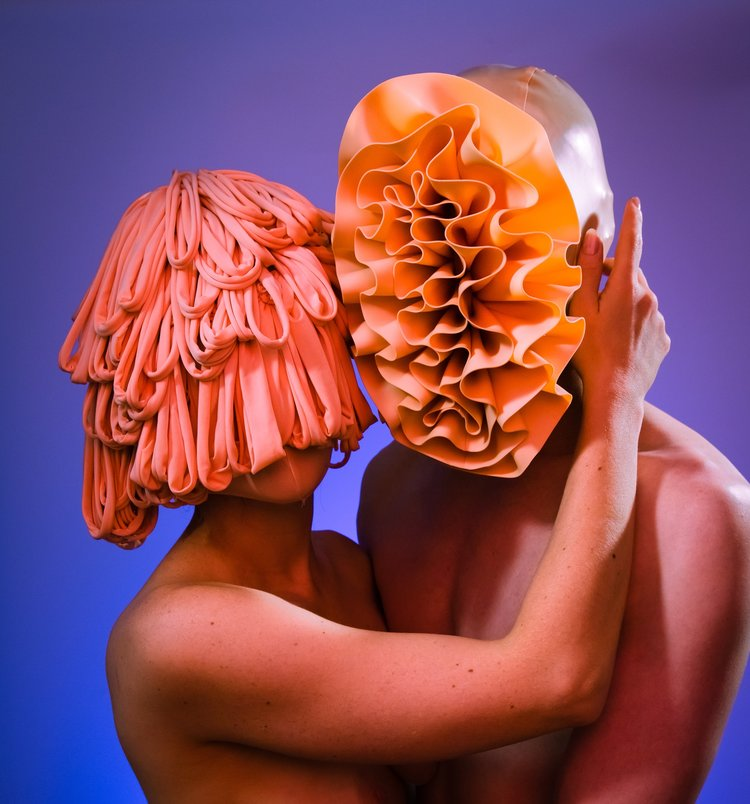
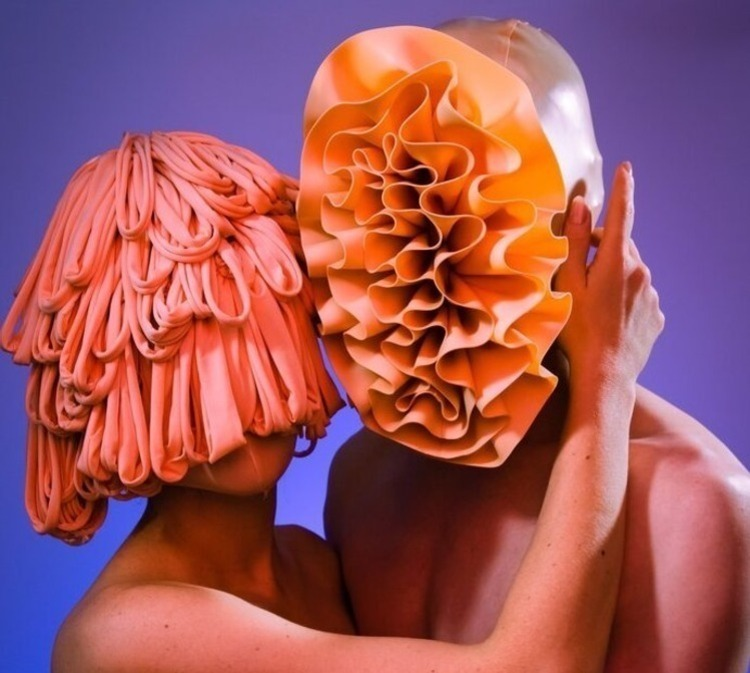
16a and 16b cropped and aligned

diff --git a/src/views/Art.jsx b/src/views/Art.jsx
@@ -64,7 +64,7 @@ const Art = () => {
           </div>
           <div className="art-duo">
             <img src={require("../assets/images/art/art6a.jpg")} alt="" />
-            <img src={require("../assets/images/art/art6b.jpg")} alt="" />
+            <img src={require("../assets/images/art/art6b.jpg")} alt="6b" />
           </div>
           <div className="duo-desc">
             <span>
